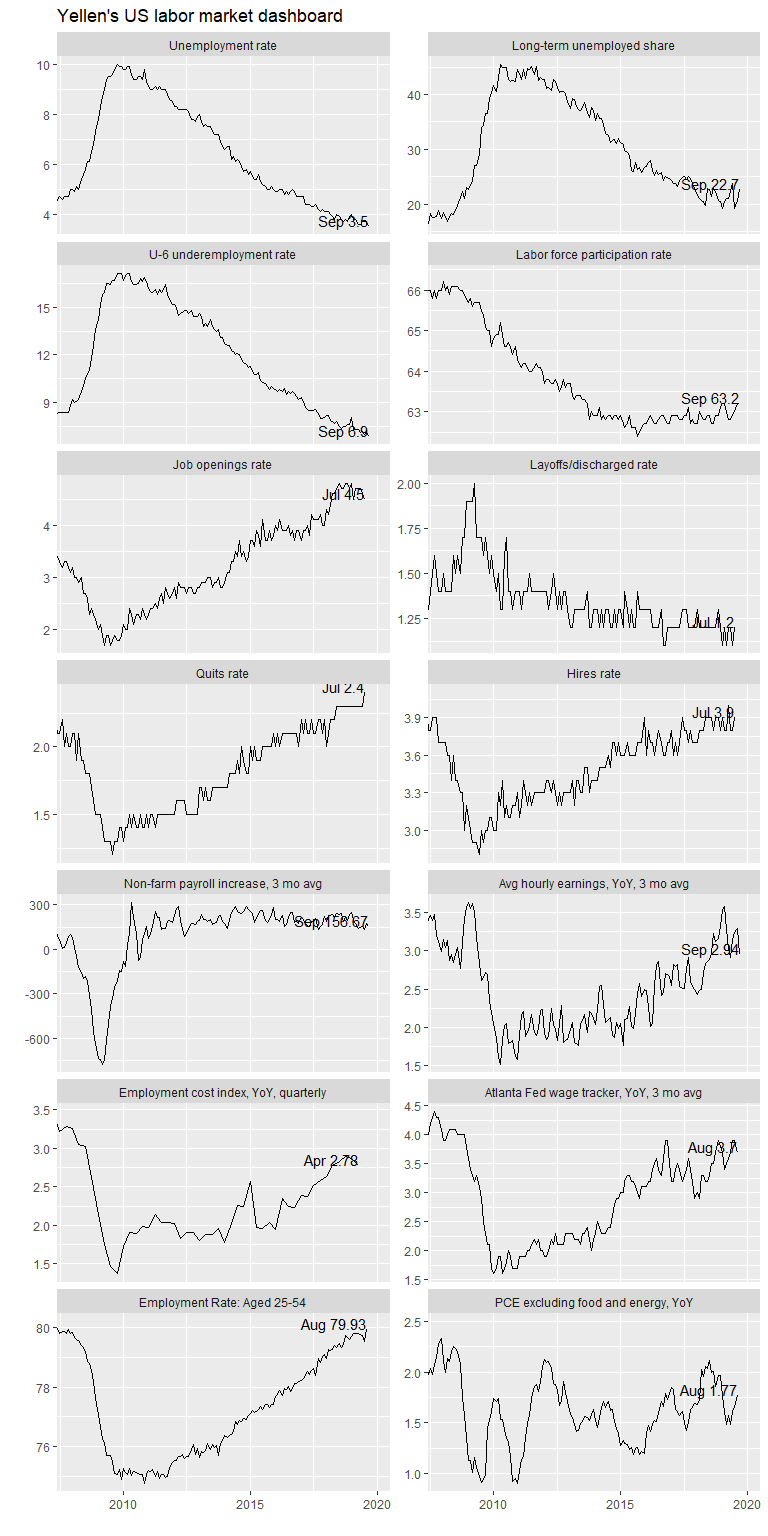
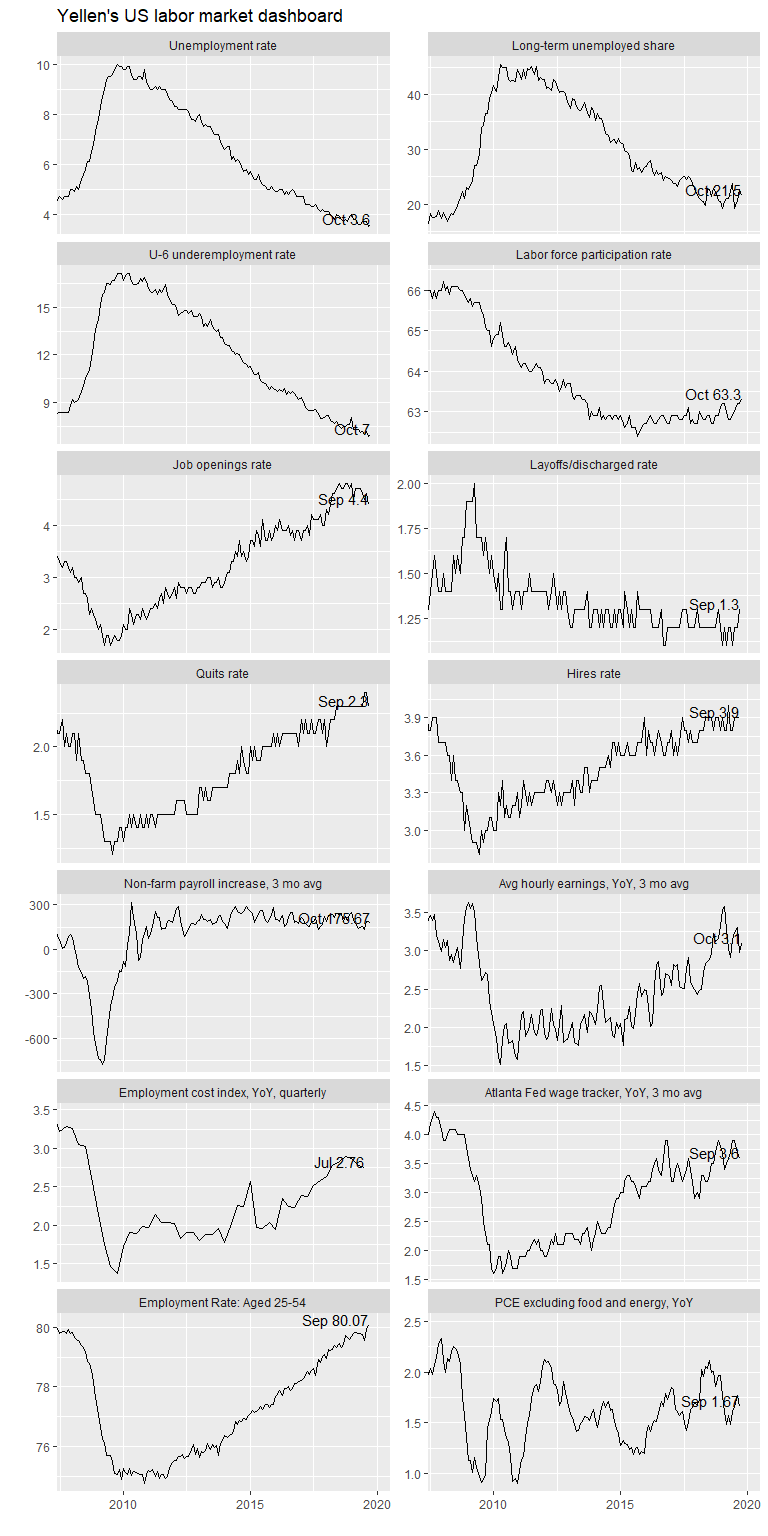
update October 2019 employment

diff --git a/README.md b/README.md
@@ -14,7 +14,7 @@ Mitsuo Shiota
   - [Prepare for the plot](#prepare-for-the-plot)
   - [Dashboard](#dashboard)
 
-Updated: 2019-10-07
+Updated: 2019-11-06
 
 ## Summary
 
@@ -45,6 +45,7 @@ readxl package to read excel data.
 
 ``` r
 library(tidyquant)
+library(tidyverse)
 library(httr)
 library(readxl)
 ```
@@ -117,7 +118,11 @@ eci <- labor_mkt_all %>%
   mutate(date = yearquarter(date)) %>% 
   as_tsibble(key = "symbol", index = "date") %>% 
   tq_gr(n = 4)
+```
 
+    ## Warning: `.key` is deprecated
+
+``` r
 # Others are monthly data, transformed to tsibble
 labor_mkt_m <- labor_mkt_all %>% 
   filter(symbol != "ECIALLCIV") %>% 
@@ -137,6 +142,10 @@ payems <- labor_mkt_m %>%
   tq_ma(n = 3)
 ```
 
+    ## Warning: `.key` is deprecated
+    
+    ## Warning: `.key` is deprecated
+
 I transform PCE to year-over-year growth rates, and average hourly
 earnings to year-over-year growth rates and 3 month moving average.
 
@@ -145,13 +154,21 @@ earnings to year-over-year growth rates and 3 month moving average.
 pce <- labor_mkt_m %>% 
   filter(symbol == "PCEPILFE") %>% 
   tq_gr(n = 12)
+```
 
+    ## Warning: `.key` is deprecated
+
+``` r
 # transform Average hourly earnings to YoY, 3 ma
 ceu <- labor_mkt_m %>% 
   filter(symbol == "CEU0500000003") %>% 
   tq_gr(n = 12) %>% 
   tq_ma(n = 3)
 ```
+
+    ## Warning: `.key` is deprecated
+    
+    ## Warning: `.key` is deprecated
 
 ## Get data from Atlanta Fed Wage Growth Trucker
 
